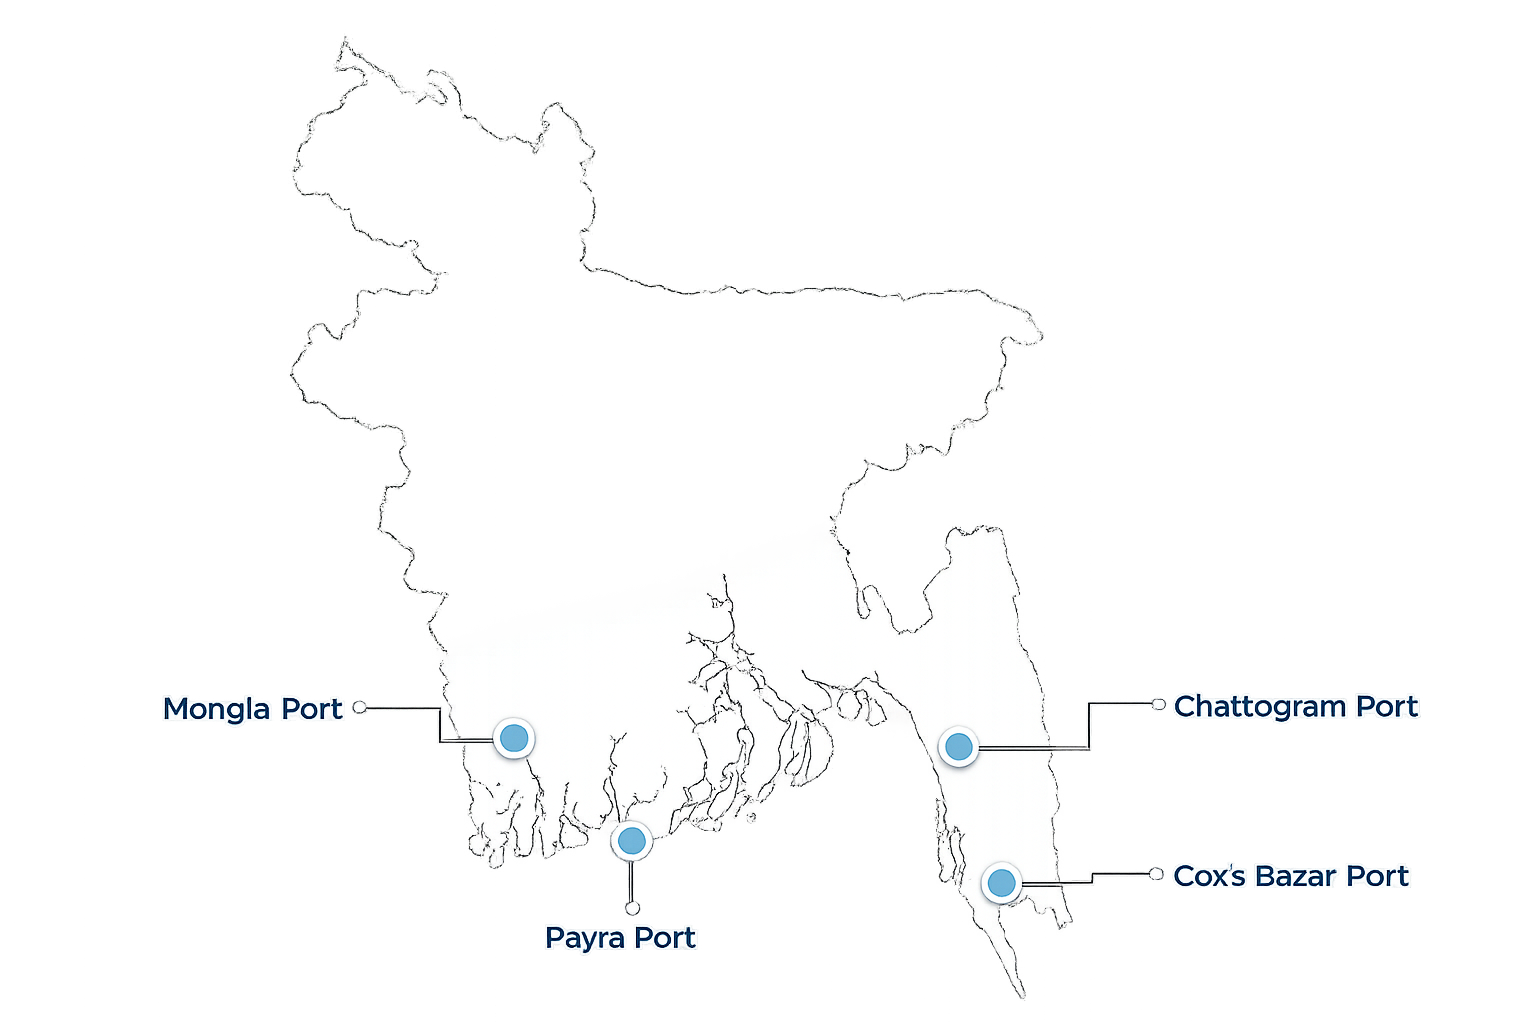
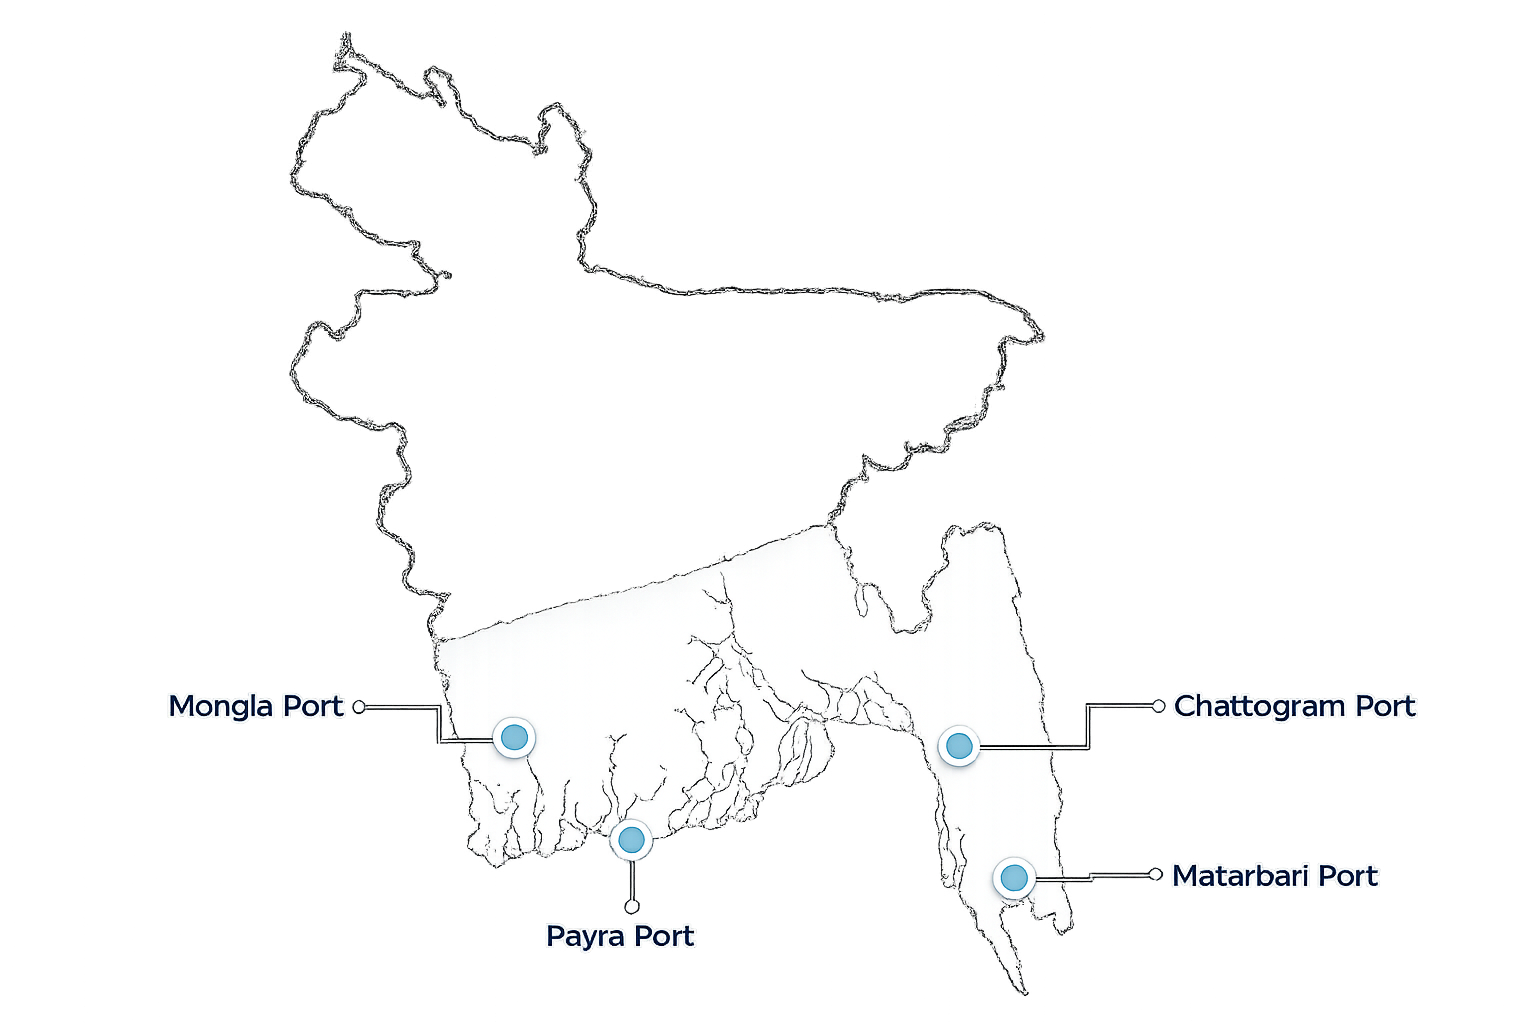
little up

diff --git a/resources/views/site/partials/footer.blade.php b/resources/views/site/partials/footer.blade.php
@@ -56,8 +56,8 @@
             'address' => 'Chattogram Port Authority, Bandar Area, Chattogram 4100, Bangladesh.',
         ],
         [
-            'name' => "Cox's Bazar Port (Fishing Harbour)",
-            'address' => "Cox's Bazar Fishing Harbour, Kasturi Ghat Road, Cox's Bazar 4700, Bangladesh.",
+            'name' => "Matarbari Port",
+            'address' => " Matarbari, Maheshkhali Upazila, Cox's Bazar District, Bangladesh.",
         ],
     ];
 @endphp